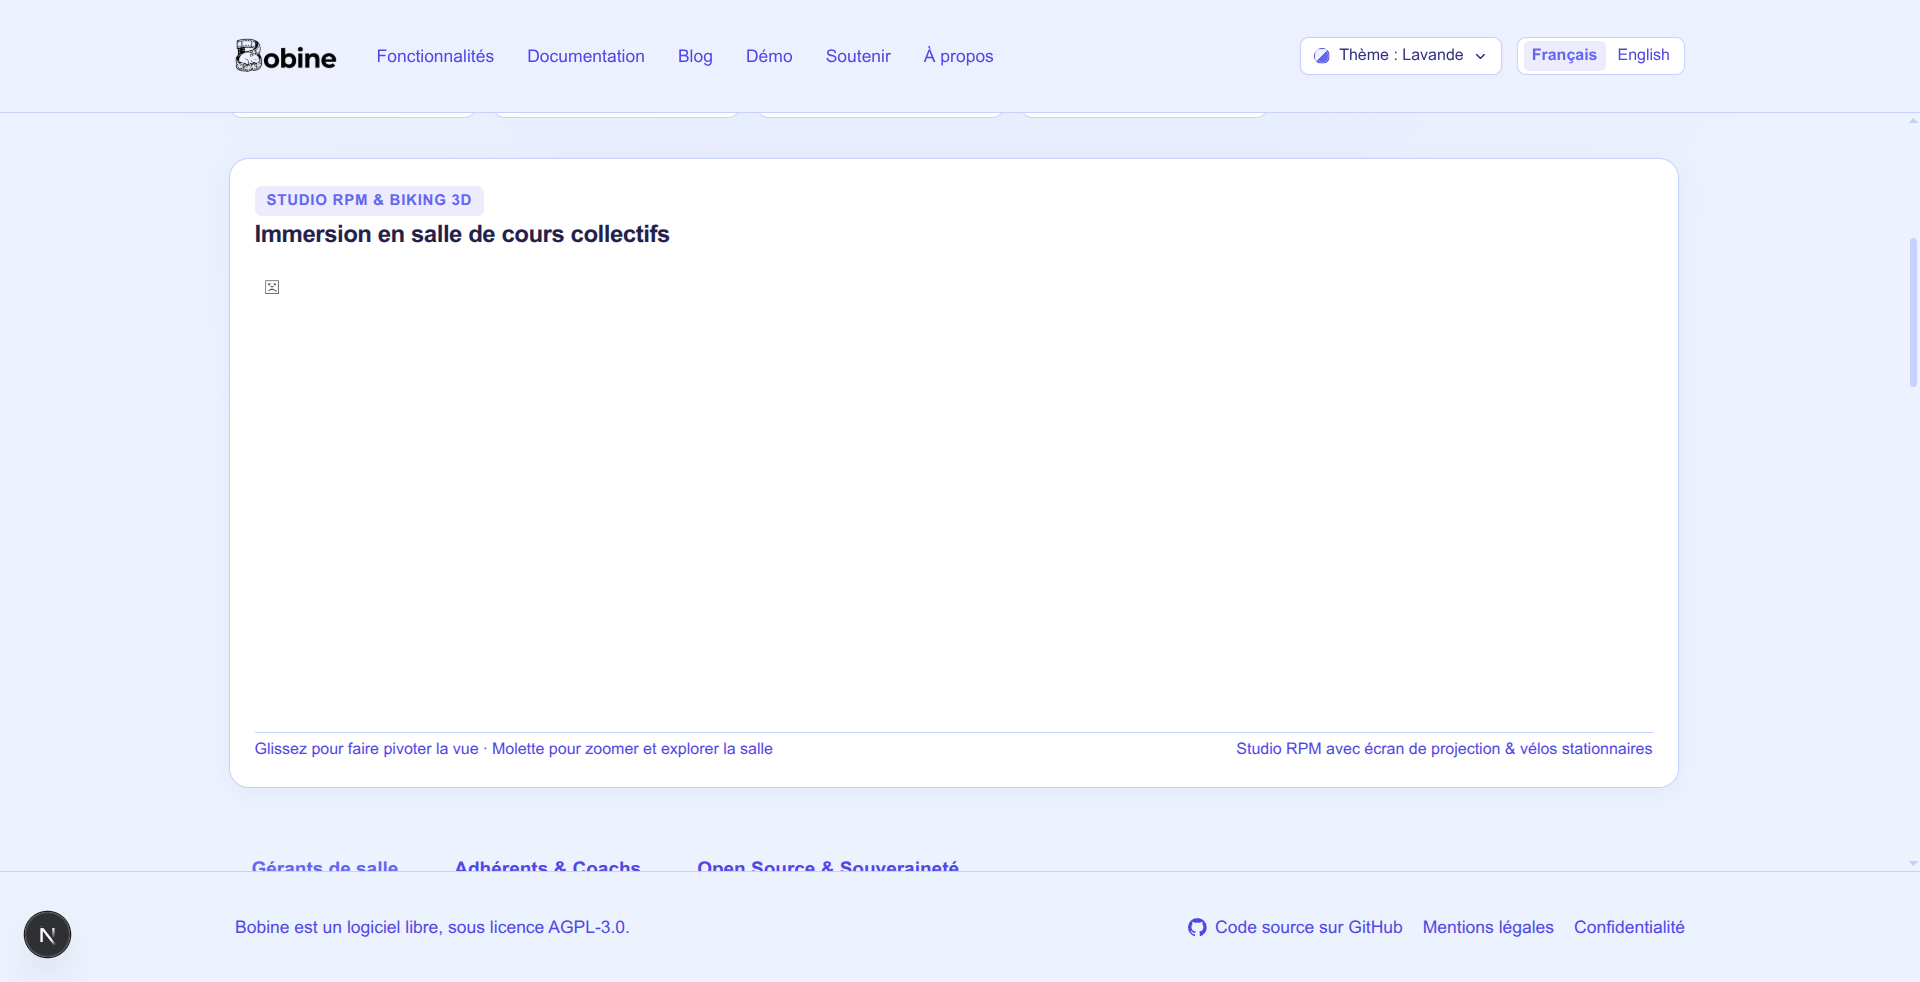
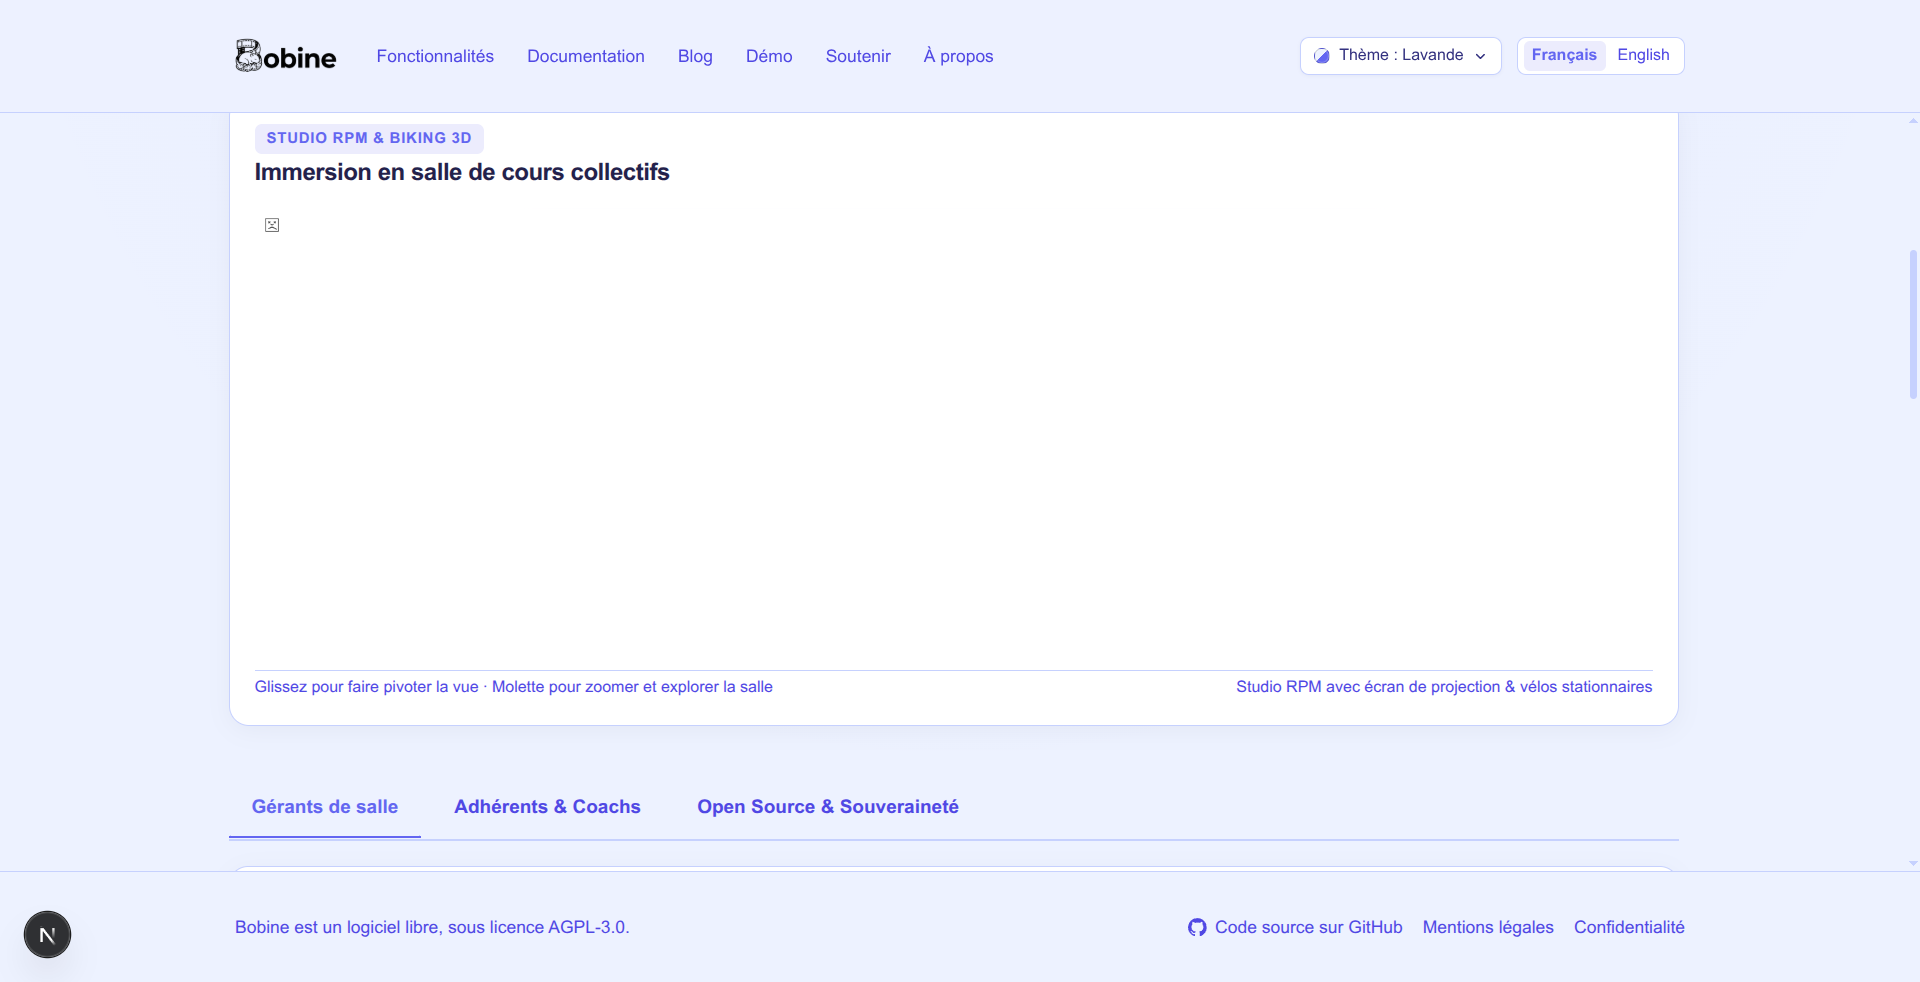
fix(3d): maintien permanent du canvas 3D et invalidation fluide (suppression du clignotement)

diff --git a/src/components/three/StudioRPMScene.tsx b/src/components/three/StudioRPMScene.tsx
@@ -1,7 +1,7 @@
 "use client";
 
-import { Suspense, useEffect, useRef, useState } from "react";
-import { Canvas } from "@react-three/fiber";
+import { Suspense, useEffect } from "react";
+import { Canvas, useThree } from "@react-three/fiber";
 import { ContactShadows, OrbitControls } from "@react-three/drei";
 import * as THREE from "three";
 import VeloModel from "./VeloModel";
@@ -32,6 +32,15 @@ const BIKES_EXACT_GRID: Array<{
 ];
 
 function StudioContent() {
+  const { invalidate } = useThree();
+
+  // Force le premier rendu dès que les modèles GLTF sont instanciés
+  useEffect(() => {
+    invalidate();
+    const timer = setTimeout(() => invalidate(), 200);
+    return () => clearTimeout(timer);
+  }, [invalidate]);
+
   return (
     <>
       <OrbitControls
@@ -98,30 +107,8 @@ function StudioContent() {
 }
 
 export default function StudioRPMScene() {
-  const [isInView, setIsInView] = useState(true);
-  const containerRef = useRef<HTMLDivElement>(null);
-
-  // Coupe le rendu WebGL quand la section n'est pas visible dans l'écran
-  useEffect(() => {
-    const el = containerRef.current;
-    if (!el || typeof IntersectionObserver === "undefined") {
-      setIsInView(true);
-      return;
-    }
-
-    const observer = new IntersectionObserver(
-      ([entry]) => {
-        setIsInView(entry.isIntersecting);
-      },
-      { rootMargin: "150px", threshold: 0.05 }
-    );
-
-    observer.observe(el);
-    return () => observer.disconnect();
-  }, []);
-
   return (
-    <div className="studio-rpm-container" ref={containerRef}>
+    <div className="studio-rpm-container">
       <div className="studio-rpm-header">
         <div className="studio-rpm-title">
           <span className="studio-rpm-badge">Studio RPM & Biking 3D</span>
@@ -130,31 +117,27 @@ export default function StudioRPMScene() {
       </div>
 
       <div className="studio-rpm-viewport studio-rpm-viewport--dark">
-        {isInView ? (
-          <Suspense
-            fallback={
-              <div className="studio-rpm-loading">
-                Chargement du studio 3D...
-              </div>
-            }
+        <Suspense
+          fallback={
+            <div className="studio-rpm-loading">
+              Chargement du studio 3D...
+            </div>
+          }
+        >
+          <Canvas
+            camera={{ position: [3.8, 2.4, 4.6], fov: 38 }}
+            frameloop="demand"
+            dpr={1}
+            gl={{
+              alpha: true,
+              antialias: true,
+              powerPreference: "low-power",
+              toneMapping: THREE.ACESFilmicToneMapping,
+            }}
           >
-            <Canvas
-              camera={{ position: [3.8, 2.4, 4.6], fov: 38 }}
-              frameloop="demand"
-              dpr={1}
-              gl={{
-                alpha: true,
-                antialias: true,
-                powerPreference: "low-power",
-                toneMapping: THREE.ACESFilmicToneMapping,
-              }}
-            >
-              <StudioContent />
-            </Canvas>
-          </Suspense>
-        ) : (
-          <div className="studio-rpm-loading">Scène 3D en pause (hors écran)</div>
-        )}
+            <StudioContent />
+          </Canvas>
+        </Suspense>
       </div>
 
       <div className="studio-rpm-footer">
@@ -164,6 +147,7 @@ export default function StudioRPMScene() {
     </div>
   );
 }
+
 
 
 

diff --git a/src/components/three/ProjecteurModel.tsx b/src/components/three/ProjecteurModel.tsx
@@ -1,5 +1,4 @@
-"use client";
-
+import { useMemo } from "react";
 import { useGLTF } from "@react-three/drei";
 
 const MODEL_URL = "/models/projecteur.glb";
@@ -14,7 +13,7 @@ export default function ProjecteurModel({
   scale?: number;
 }) {
   const { scene } = useGLTF(MODEL_URL);
-  const clone = scene.clone();
+  const clone = useMemo(() => scene.clone(), [scene]);
 
   return (
     <group position={position} rotation={rotation} scale={scale}>
@@ -22,5 +21,6 @@ export default function ProjecteurModel({
     </group>
   );
 }
+
 
 useGLTF.preload(MODEL_URL);

diff --git a/src/components/three/TableauModel.tsx b/src/components/three/TableauModel.tsx
@@ -1,5 +1,4 @@
-"use client";
-
+import { useMemo } from "react";
 import { useGLTF } from "@react-three/drei";
 
 const MODEL_URL = "/models/tableau.glb";
@@ -14,7 +13,7 @@ export default function TableauModel({
   scale?: number;
 }) {
   const { scene } = useGLTF(MODEL_URL);
-  const clone = scene.clone();
+  const clone = useMemo(() => scene.clone(), [scene]);
 
   return (
     <group position={position} rotation={rotation} scale={scale}>
@@ -22,5 +21,6 @@ export default function TableauModel({
     </group>
   );
 }
+
 
 useGLTF.preload(MODEL_URL);

diff --git a/src/components/three/VeloModel.tsx b/src/components/three/VeloModel.tsx
@@ -1,5 +1,4 @@
-"use client";
-
+import { useMemo } from "react";
 import { useGLTF } from "@react-three/drei";
 
 const MODEL_URL = "/models/velo.glb";
@@ -14,7 +13,7 @@ export default function VeloModel({
   scale?: number;
 }) {
   const { scene } = useGLTF(MODEL_URL);
-  const clone = scene.clone();
+  const clone = useMemo(() => scene.clone(), [scene]);
 
   return (
     <group position={position} rotation={rotation} scale={scale}>
@@ -22,5 +21,6 @@ export default function VeloModel({
     </group>
   );
 }
+
 
 useGLTF.preload(MODEL_URL);
